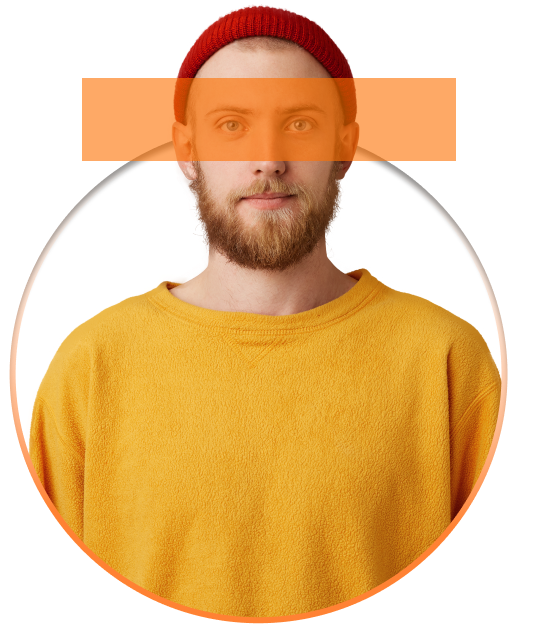
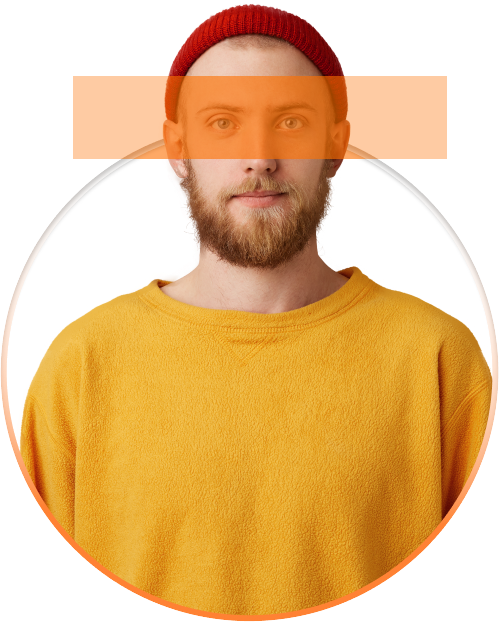
feat: added section about

diff --git a/src/scss/sections/home/about.scss b/src/scss/sections/home/about.scss
@@ -1,0 +1,92 @@
+.about {
+  padding-top: 46px;
+
+  &__inner {
+    display: flex;
+    justify-content: space-between;
+  }
+
+  &__information {
+    max-width: 756px;
+
+    &_title {
+      font-family: $ff;
+      font-size: 65px;
+      font-weight: 600;
+      line-height: normal;
+      letter-spacing: 1.95px;
+      color: $black;
+    }
+
+    &_text {
+      margin-bottom: 23px;
+      font-family: $ff;
+      font-size: 21px;
+      font-weight: 400;
+      line-height: normal;
+      letter-spacing: 0.63px;
+      color: $black;
+    }
+  }
+
+  &__skills {
+  }
+
+  &__skill {
+    &_name {
+      margin-bottom: 18px;
+      font-family: $ff;
+      font-size: 24px;
+      font-weight: 600;
+      line-height: normal;
+      letter-spacing: 0.72px;
+      color: $black;
+    }
+
+    &_band {
+      margin-bottom: 24px;
+      width: 100%;
+      height: 12px;
+      position: relative;
+      background-color: #EDECEC;
+      border-radius: 6px;
+
+      span {
+        position: relative;
+        display: block;
+        height: 12px;
+        background-color: #FD6F00;
+        border-radius: 6px;
+
+        &:before {
+          position: absolute;
+          content: "";
+          width: 25px;
+          height: 25px;
+          right: 0;
+          top: -10px;
+          border-radius: 50%;
+          border: 4px solid #FD6F00;
+          background-color: #EDECEC;
+          filter: drop-shadow(0px 4px 7px rgba(0, 0, 0, 0.20));
+        }
+      }
+    }
+
+    &_percent {
+      &-one {
+        width: 93%;
+      }
+      &-two {
+        width: 89%;
+      }
+      &-three {
+        width: 97%;
+      }
+      &-four {
+        width: 93%;
+      }
+    }
+  }
+}
+

diff --git a/src/html/template-parts/sections/home/about.html b/src/html/template-parts/sections/home/about.html
@@ -1,0 +1,21 @@
+<section class="about">
+    <div class="container">
+        <div class="about__inner">
+            <div class="about__image">
+                <img src="img/about/man.png" alt="Man">
+            </div>
+            <div class="about__information">
+                <h2 class="about__information_title">About Me </h2>
+                <p class="about__information_text">Lorem ipsum dolor sit amet consectetur. Tristique amet sed massa nibh lectus netus in. Aliquet donec morbi convallis pretium. Turpis tempus pharetra</p>
+                <div class="about__skills">
+                    @@loop('./skill.html', [
+                        {'name': 'UX', 'skill': 'about__skill_percent-one'},
+                        {'name': 'Website Design', 'skill': 'about__skill_percent-two'},
+                        {'name': 'App Design', 'skill': 'about__skill_percent-three'},
+                        {'name': 'Graphic Design', 'skill': 'about__skill_percent-four'}
+                    ])
+                </div>
+            </div>
+        </div>
+    </div>
+</section>

diff --git a/src/html/index.html b/src/html/index.html
@@ -2,6 +2,7 @@
 
 <main>
 	@@include( 'template-parts/sections/home/hero.html' )
+	@@include( 'template-parts/sections/home/about.html' )
 </main>
 
 @@include( 'template-parts/footer/footer.html' )

diff --git a/src/html/template-parts/sections/home/skill.html b/src/html/template-parts/sections/home/skill.html
@@ -1,0 +1,6 @@
+<div class="about__skill">
+    <p class="about__skill_name">@@name</p>
+    <div class="about__skill_band">
+        <span class=@@skill></span>
+    </div>
+</div>

diff --git a/src/scss/main.scss b/src/scss/main.scss
@@ -16,3 +16,4 @@
 
 // Home page sections styles.
 @import 'sections/home/hero';
+@import 'sections/home/about';
